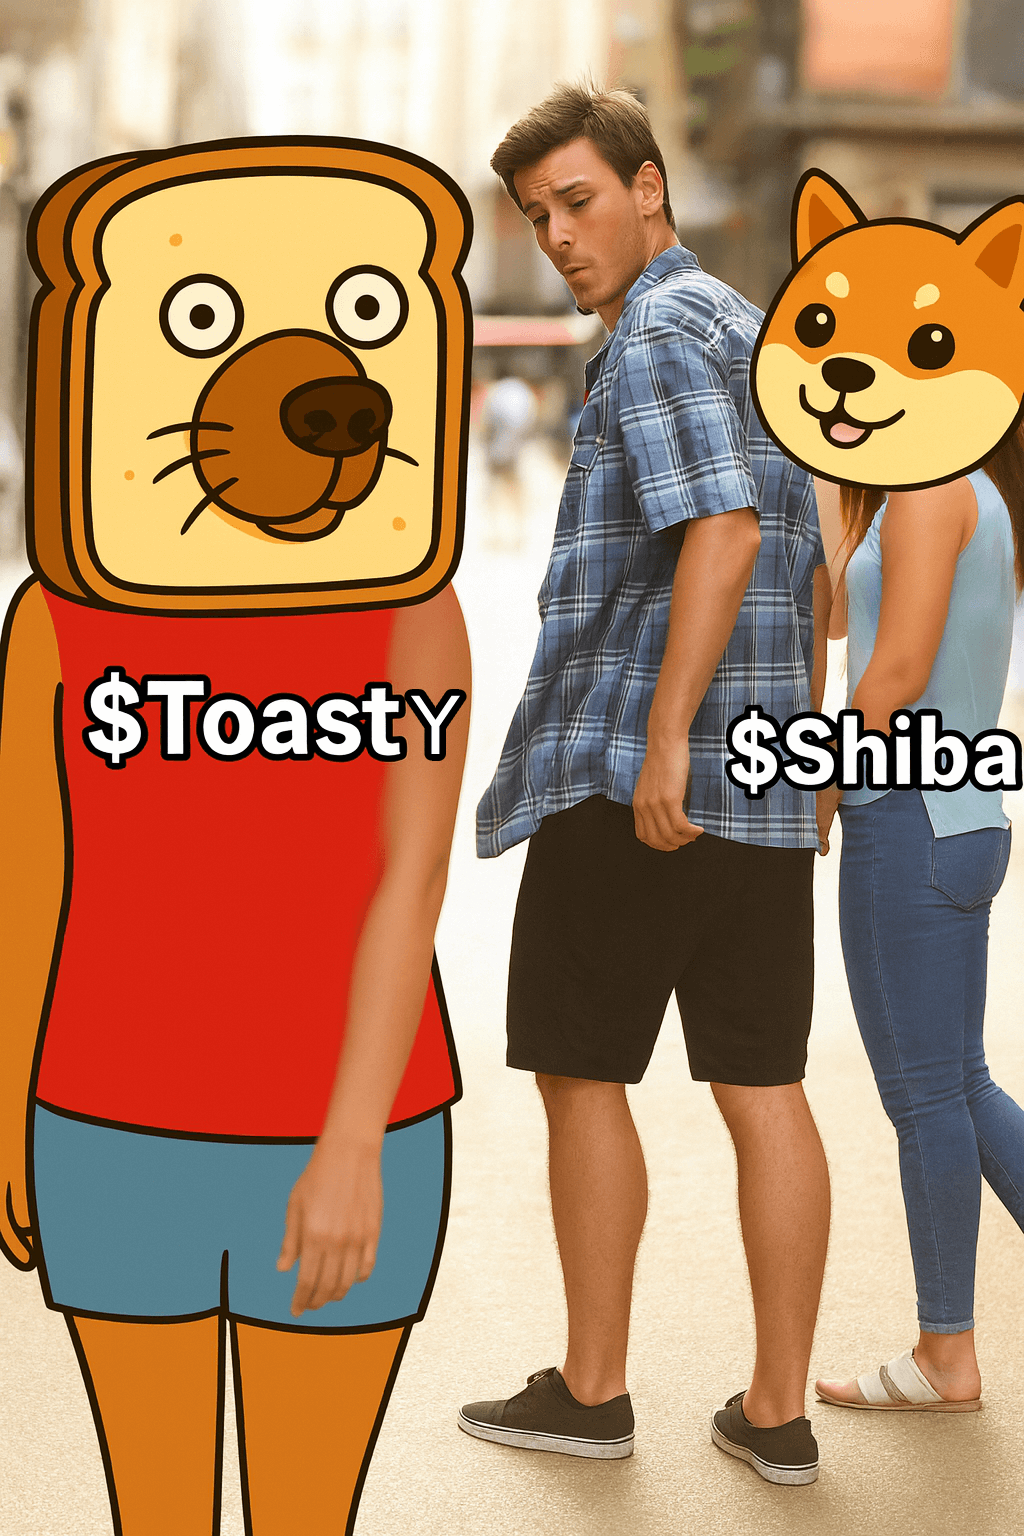
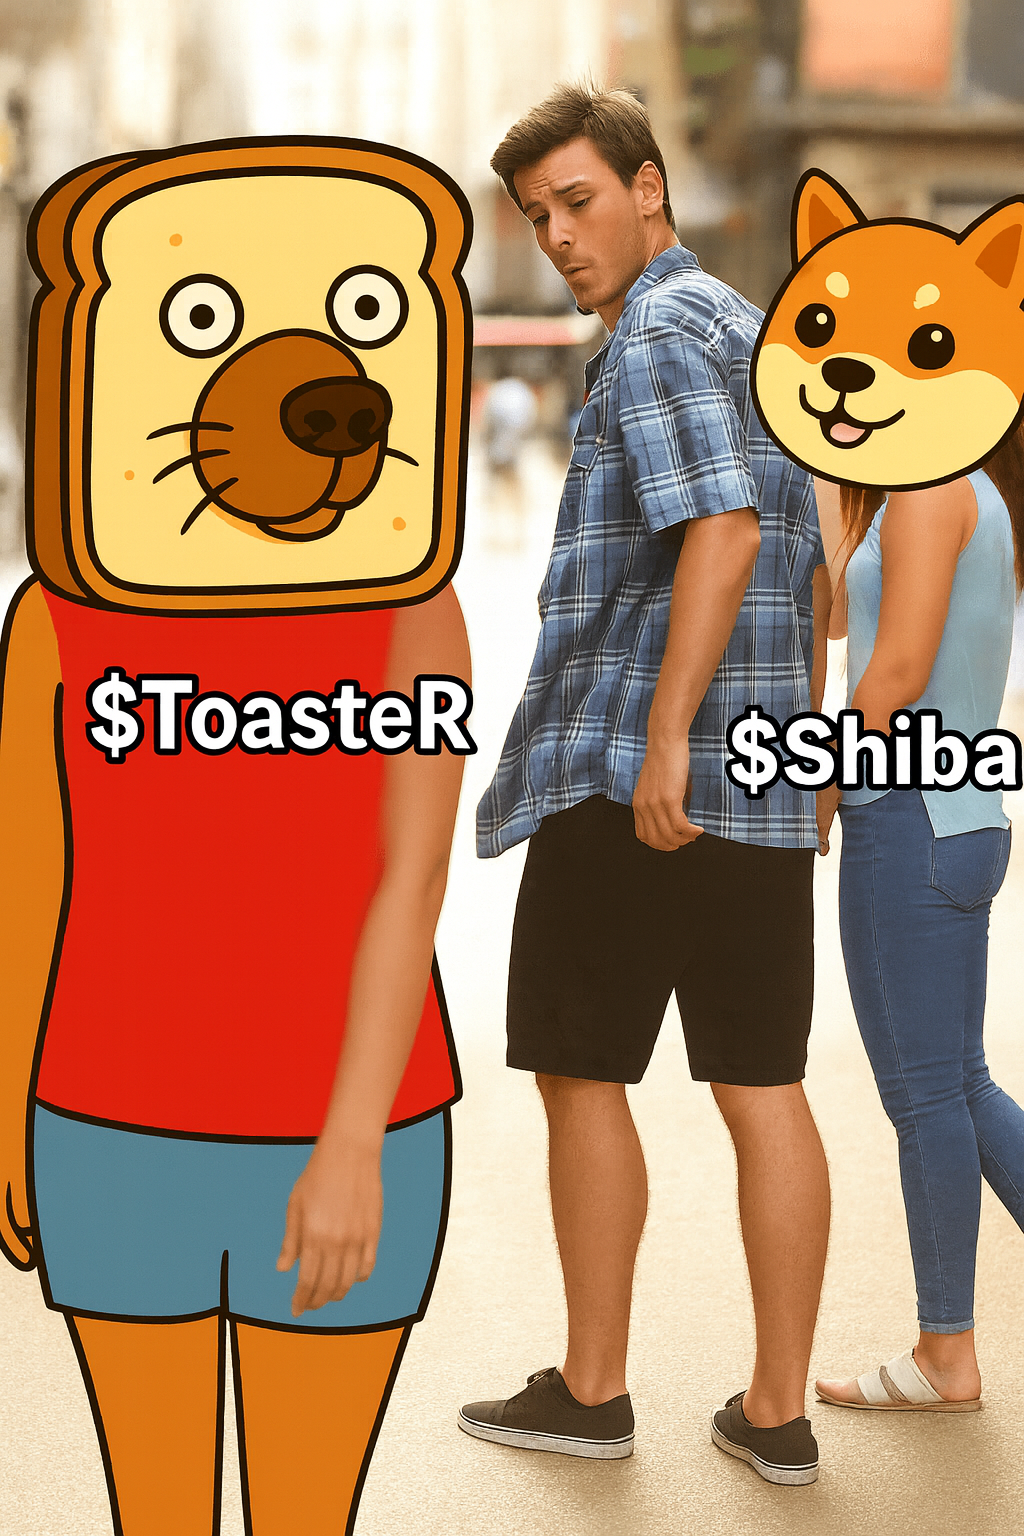
bio added20

Changed region(s): [[0.0625, 0.4375, 0.4688, 0.5], [0.8438, 0.9375, 0.875, 0.9688]]

diff --git a/index.html b/index.html
@@ -17,9 +17,9 @@
 <body>
     <div class="header__menu">
                     <div class="header__menu--box">
-                        <a title="X" href="https://x.com/Toasty_theDoggo" class="header__menu--link"><img class="header__menu--item" src="images/from_image_embedded.svg" alt="X"></a>
-                        <a title="Dexscreener"  href="https://dexscreener.com/solana/DAtbG7jC479b2n2MUepfBYERZEdvs4NEXT56TSFW5R8m" class="header__menu--link"><img class="header__menu--item" src="images/owl_logo_embedded.svg" alt="dexscreener"></a>
-                        <a title="Telegram" href="https://t.me/Toasty_theDog" class="header__menu--link"><img class="header__menu--item" src="images/icons-tg.svg" alt="telegram"></a>
+                        <a title="X" href="https://x.com/Toaster_theDog" class="header__menu--link"><img class="header__menu--item" src="images/from_image_embedded.svg" alt="X"></a>
+                        <a title="Dexscreener"  href="https://dexscreener.com/solana/Cf8FePDTMJYBwxk2gofMR5yfLJL3ny31E6kRRFHwtmYa" class="header__menu--link"><img class="header__menu--item" src="images/owl_logo_embedded.svg" alt="dexscreener"></a>
+                        <a title="Telegram" href="https://t.me/Toaster_theDog" class="header__menu--link"><img class="header__menu--item" src="images/icons-tg.svg" alt="telegram"></a>
                     </div>
                     <button class="header__menu-btn">Buy</button>
                 </div>
@@ -56,7 +56,7 @@
         </div>
     </header>
     <div class="contr">
-  <p id="copyText" class="contr__link">DAtbG7jC479b2n2MUepfBYERZEdvs4NEXT56TSFW5R8m</p>
+  <p id="copyText" class="contr__link">Cf8FePDTMJYBwxk2gofMR5yfLJL3ny31E6kRRFHwtmYa</p>
   <button class="copy-btn" onclick="copyToClipboard(this)">Copy</button>
 </div>
     <section class="about">
@@ -64,7 +64,7 @@
             <div class="about__content">
                 <h2 data-aos="flip-right" class="about__title">About me</h2>
                 <div class="about__info">
-                    <p data-aos="zoom-in" data-aos-delay="150" class="about__text">$TOASTY the Toasterrier absolutely loves bread, just like crypto-fams love green candles. This doggo will fly to the moon faster than bread can go stale. Be in a rocket, we're just taking off.</p>
+                    <p data-aos="zoom-in" data-aos-delay="150" class="about__text">$TOASTER the Toasterrier absolutely loves bread, just like crypto-fams love green candles. This doggo will fly to the moon faster than bread can go stale. Be in a rocket, we're just taking off.</p>
                     <video data-aos="zoom-in" data-aos-delay="150" class="about__info-video" autoplay muted loop playsinline>
                     <source  src="images/bread-video.mp4" type="video/mp4">
                     Your browser can`t open video.
@@ -132,14 +132,14 @@
                     </p>
                 </div>
                 <div data-aos=fade-down-left class="buy-info__step">
-                    <h3 class="buy-info__step-title">4. Swap $SOL for $TOASTY</h3>
+                    <h3 class="buy-info__step-title">4. Swap $SOL for $TOASTER</h3>
                     <p class="buy-info__step-text">
                         Click the SWAP button on the website. After this, sign the transaction in your wallet
                     </p>
                 </div>
             </div>
             <div class="contr">
-<p id="copyText" class="contr__link">DAtbG7jC479b2n2MUepfBYERZEdvs4NEXT56TSFW5R8m</p>
+<p id="copyText" class="contr__link">Cf8FePDTMJYBwxk2gofMR5yfLJL3ny31E6kRRFHwtmYa</p>
 <button class="copy-btn" onclick="copyToClipboard(this)">Copy</button>
 </div>
         </div>
@@ -166,7 +166,7 @@
     <div class="footer-content">
       <h2 class="footer-title">Don’t wait. Toast it. Profit.</h2>
       <p class="footer-text"></p>
-      <a href="https://dexscreener.com/solana/DAtbG7jC479b2n2MUepfBYERZEdvs4NEXT56TSFW5R8m"><button class="buy-btn">Buy Now</button></a>
+      <a href="https://dexscreener.com/solana/Cf8FePDTMJYBwxk2gofMR5yfLJL3ny31E6kRRFHwtmYa"><button class="buy-btn">Buy Now</button></a>
     </div>
   </div>
 </footer>
